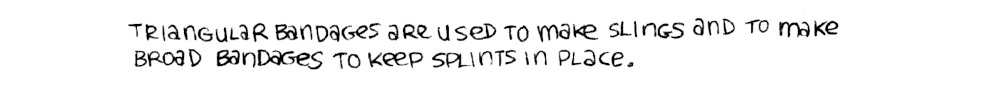
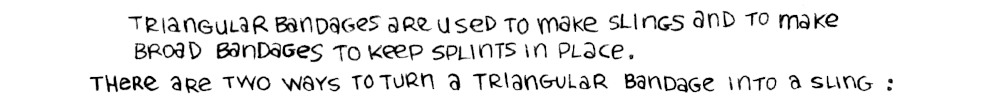
*

Changed region(s): [[0.062, 0.0889, 0.899, 0.8889]]

diff --git a/site/triangular_bandage.html b/site/triangular_bandage.html
@@ -21,11 +21,23 @@
 </header>
 <main>
     <img src='../media/content/triangular_01.jpg' alt=''>
-    <p class='noprint'>Triangular bandages are used to make slings and to make broad bandages to keep splints in place.</p>
+    <p class='noprint'>Triangular bandages are used to make slings and to make broad bandages to keep splints in place.<br>There are two ways to tur a triangular bandage into a sling:</p>
+    <h2>Arm Sling</h2>
+    <img src='../media/content/triangular_06.jpg' alt=''>
+    <p class='noprint'>An arm sling is horizontal (or slightly raised), it is used to treat upper arm injuries, wrist injuries, rib fractures, etc.</p>
     <img src='../media/content/triangular_02.jpg' alt='illustrations of a rabbit with a broken arm, with several steps showing how to wrap a triangular bandage into a sling to support the injury. The rabbit goes from being upset, to happy with a good sling'>
-    <p class='noprint'>Pass around the back of the neck towards the injured side. Make a reef knot(keep knot above the clavicle). Keep corner away from the elbow. Expose all fingers. Twist end, and tuck(or secure with safety pin).</p>
+    <p class='noprint'>Pass around the back of the neck towards the injured side. Make a reef knot(keep knot above the clavicle). Keep corner away from the elbow. Twist end, and tuck(or secure with safety pin).</p>
+    <h2>Elevation Sling</h2>
+    <img src='../media/content/triangular_07.jpg' alt=''>
+    <p class='noprint'>An elevation sling helps to control hand and arm bleeding, and helps to reduce swelling.</p>
+    <img src='../media/content/triangular_05.jpg' alt='a rabbit has a swollen hand which is progressively elevated using a triangular bandage into a sling.'>
+    <p class='noprint'>Reef knot & tuck ends around knot.</p>
+    <h2>How to tie a reef knot</h2>
     <img src='../media/content/triangular_03.jpg' alt='4 images showing how to tie a reef knot'>
     <p class='noprint'>How to tie a reef knot (square knot).</p>
+    <img src='../media/content/triangular_08.jpg' alt=''>
+    <p class='noprint'>Triangular bandages are used to make slings and to make broad bandages to keep splints in place.</p>
+    <h2>How to fold a triangular bandage into a broad or narrow bandage</h2>
     <img src='../media/content/triangular_04.jpg' alt='6 steps showing how to fold a triangular bandage into a narrow band, by folding the triangle onto itself several times'>
     <p class='noprint'>How to fold a triangular bandage into a broad or narrow bandage:</p>
 </main>

diff --git a/site/about.html b/site/about.html
@@ -42,6 +42,7 @@
 			<li><a href="flags_maritime.html">International Maritime Signal Flags</a></li>
 			<li><a href="morse_code.html">Morse Code</a></li>
 			<li><a href="morse_flags.html">Morse Code With Flags</a></li>
+			<li><a href="triangular_bandage.html">Triangular Bandage</a></li>
 		</ul>
 	</nav>
 	<img src='../media/interface/pages.jpg' alt='Pages:' class='title'>
@@ -53,6 +54,7 @@
 	<a href="morse.html"><img src='../media/interface/morse_code.jpg' title='Morse Code'></a>
 	<a href="morse_flags.html"><img src='../media/interface/morse_flags.jpg' title='Morse Code with flags'></a>
 	<a href="flags_maritime.html"><img src='../media/interface/international_maritime_signal_flags.jpg' title='International Maritime Signal Flags'></a>
+	<a href="triangular_bandage.html"><img src='../media/interface/triangular_bandage.jpg' title='Triangular Bandage'></a>
 	<img src='../media/interface/support.jpg' alt='Support:' class='title'>
 	<div id='wrapsupport'>
 		<img src='../media/interface/support_options.jpg' loading='lazy' title='Support options:'>
